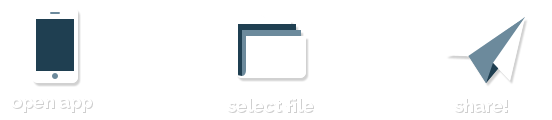
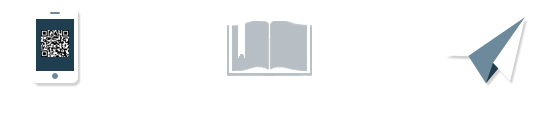
first version of the landing page

diff --git a/css/style.css b/css/style.css
@@ -276,6 +276,7 @@ h3 {
 	z-index: 1000;
 	color: #FFF;
 	font-size: 2.25em;
+	line-height: 70px;
 }
 
 .icon-chevron-down:before {
@@ -316,15 +317,16 @@ h3 {
 }
 
 .appstore-button {
-	width: 195px;
-	height: 70px;
+	width: 110px;
+	height: 110px;
 	display: inline-block;
 	opacity: 1 !important;
 }
 
 .playstore-button {
-	width: 195px;
-	height: 70px;
+	width: 110px;
+	height: 110px;
+	margin-left: 40px;
 	display: inline-block;
 	animation-delay: 4s;
 	opacity: 1 !important;
@@ -356,7 +358,8 @@ h3 {
 
 .video-bg iframe,
 .video-bg object,
-.video-bg embed {
+.video-bg embed,
+.video-bg img {
     position: absolute;
     top: 4px;
     left: 0;
@@ -513,6 +516,7 @@ h3 {
 	z-index: 1000;
 	color: #FFF;
 	font-size: 2em;
+	line-height: 70px;
 }
 
 .icon-cogs:before {
@@ -669,6 +673,7 @@ h3 {
 	z-index: 1000;
 	color: #FFF;
 	font-size: 2em;
+	line-height: 70px;
 }
 
 .icon-picture:before {
@@ -679,7 +684,7 @@ h3 {
    width: 280px;
    height: auto;
    margin: 0 5px 10px 0;
-   float: left;
+   display: inline-block;
    border: 8px solid #fff;
    overflow: hidden;
    position: relative;
@@ -690,6 +695,11 @@ h3 {
    cursor: default;
    background: #EAEAEA;
    visibility: hidden;
+}
+
+.screen-container {
+	width: 100%;
+	text-align: center;
 }
 
 .view .mask,.view .content {
@@ -848,6 +858,7 @@ h3 {
 	z-index: 1000;
 	color: #FFF;
 	font-size: 2.25em;
+	line-height: 70px;
 }
 
 .icon-comments:before {
@@ -1023,6 +1034,7 @@ h3 {
 	z-index: 1000;
 	color: #FFF;
 	font-size: 2.25em;
+	line-height: 70px;
 }
 
 .icon-sitemap:before {
@@ -1131,6 +1143,7 @@ h3 {
 	z-index: 1000;
 	color: #FFF;
 	font-size: 2.25em;
+	line-height: 70px;
 }
 
 .icon-map-marker:before {

diff --git a/css/mobile.css b/css/mobile.css
@@ -1572,7 +1572,7 @@
 	
 	.video-bg {
 		min-height: 316px;
-		padding-bottom: 28%;
+		padding-bottom: 29.5%;
 	}
 	
 	#features {
